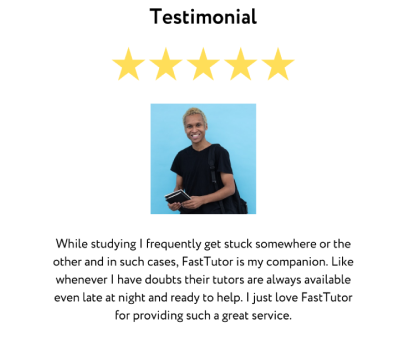
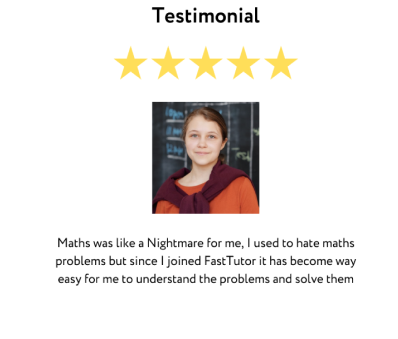
changes done

diff --git a/school.html b/school.html
@@ -104,7 +104,9 @@
 							critical academic skills for use in and beyond the classroom.
 						</p>
 						<div class="text-center text-lg-start">
-							<button class="btn_brand">Let's talk more </button>
+							<a href="./request-demo.html" class="btn_brand"
+								>Let's talk more</a
+							>
 						</div>
 					</div>
 					<div
@@ -120,7 +122,7 @@
 		<section class="our_services text-center">
 			<div class="container">
 				<h2 data-aos="zoom-in" data-aos-duration="1500">What We Offer</h2>
-				<div class="row gy-4">
+				<div class="row gy-4 justify-content-center">
 					<div
 						class="col-md-6 col-xl-4"
 						data-aos="fade-up"
@@ -146,7 +148,7 @@
 									</p>
 								</div>
 								<div>
-									<a href=""
+									<a href="./how-works.html"
 										>Learn more
 										<svg
 											width="18"
@@ -192,7 +194,7 @@
 									</p>
 								</div>
 								<div>
-									<a href=""
+									<a href="./how-works.html"
 										>Learn more
 										<svg
 											width="18"
@@ -242,7 +244,7 @@
 									</p>
 								</div>
 								<div>
-									<a href=""
+									<a href="./how-works.html"
 										>Learn more
 										<svg
 											width="18"
@@ -412,7 +414,7 @@
 					</div>
 				</div>
 				<div class="text-center get-start-btn">
-					<button href="" class="btn_brand">Let’s Get Started</button>
+					<a href="./request-demo.html" class="btn_brand">Let’s Get Started</a>
 				</div>
 			</div>
 		</section>

diff --git a/index.html b/index.html
@@ -119,8 +119,14 @@
 							</p>
 						</div>
 						<div class="hero_bottom-button">
-							<button class="btn_brand">Let’s Get Started</button>
-							<button class="btn_transparent">
+							<button
+								class="btn_brand"
+								data-bs-toggle="modal"
+								data-bs-target="#loginModal"
+							>
+								Let’s Get Started
+							</button>
+							<a href="./how-works.html" class="btn_transparent">
 								<svg
 									width="15"
 									height="21"
@@ -134,7 +140,7 @@
 									/>
 								</svg>
 								Get know more
-							</button>
+							</a>
 						</div>
 					</div>
 					<div class="col-lg-6 ps-lg-0">
@@ -1244,10 +1250,10 @@
 							</div>
 							<div class="swiper-slide">
 								<div class="tumbnile_area">
-									<img src="./assets/images/slider/1.png" alt="" />
+									<img src="./assets/images/slider/5.png" alt="" />
 								</div>
 								<div class="content">
-									<h3>Emma Williams</h3>
+									<h3>Mia Lucas</h3>
 									<p>Student</p>
 								</div>
 							</div>
@@ -1475,7 +1481,7 @@
 										<div class="logo text-center">
 											<img src="/assets/images/whitelogo.png" alt="" />
 										</div>
-										<h2>Get Started with FastTutor !</h2>
+										<h2>Get Started with FastTutor</h2>
 										<div class="list-style-pages">
 											<p>
 												<span
@@ -1933,8 +1939,6 @@
 				margin-left: -50px;
 				display: none;
 			}
-
-			 
 		</style>
 
 		<script

diff --git a/assets/scss/custom/_request-demo.scss b/assets/scss/custom/_request-demo.scss
@@ -26,10 +26,12 @@
     display: flex;
     gap: 60px;
     margin-top: 60px;
-    // flex-wrap: wrap;
+    flex-wrap: wrap;
+    justify-content: center;
 
     .demon_content {
       // max-width: 460px;
+      // min-width: 430px;
       padding: 40px;
       box-shadow: 0px 0px 30px rgba(0, 0, 0, 0.15);
       height: fit-content;

diff --git a/assets/css/style.css b/assets/css/style.css
@@ -13650,6 +13650,8 @@ footer .copyright_text a {
   display: flex;
   gap: 60px;
   margin-top: 60px;
+  flex-wrap: wrap;
+  justify-content: center;
 }
 .req-demo .request_demo .demon_content {
   padding: 40px;
